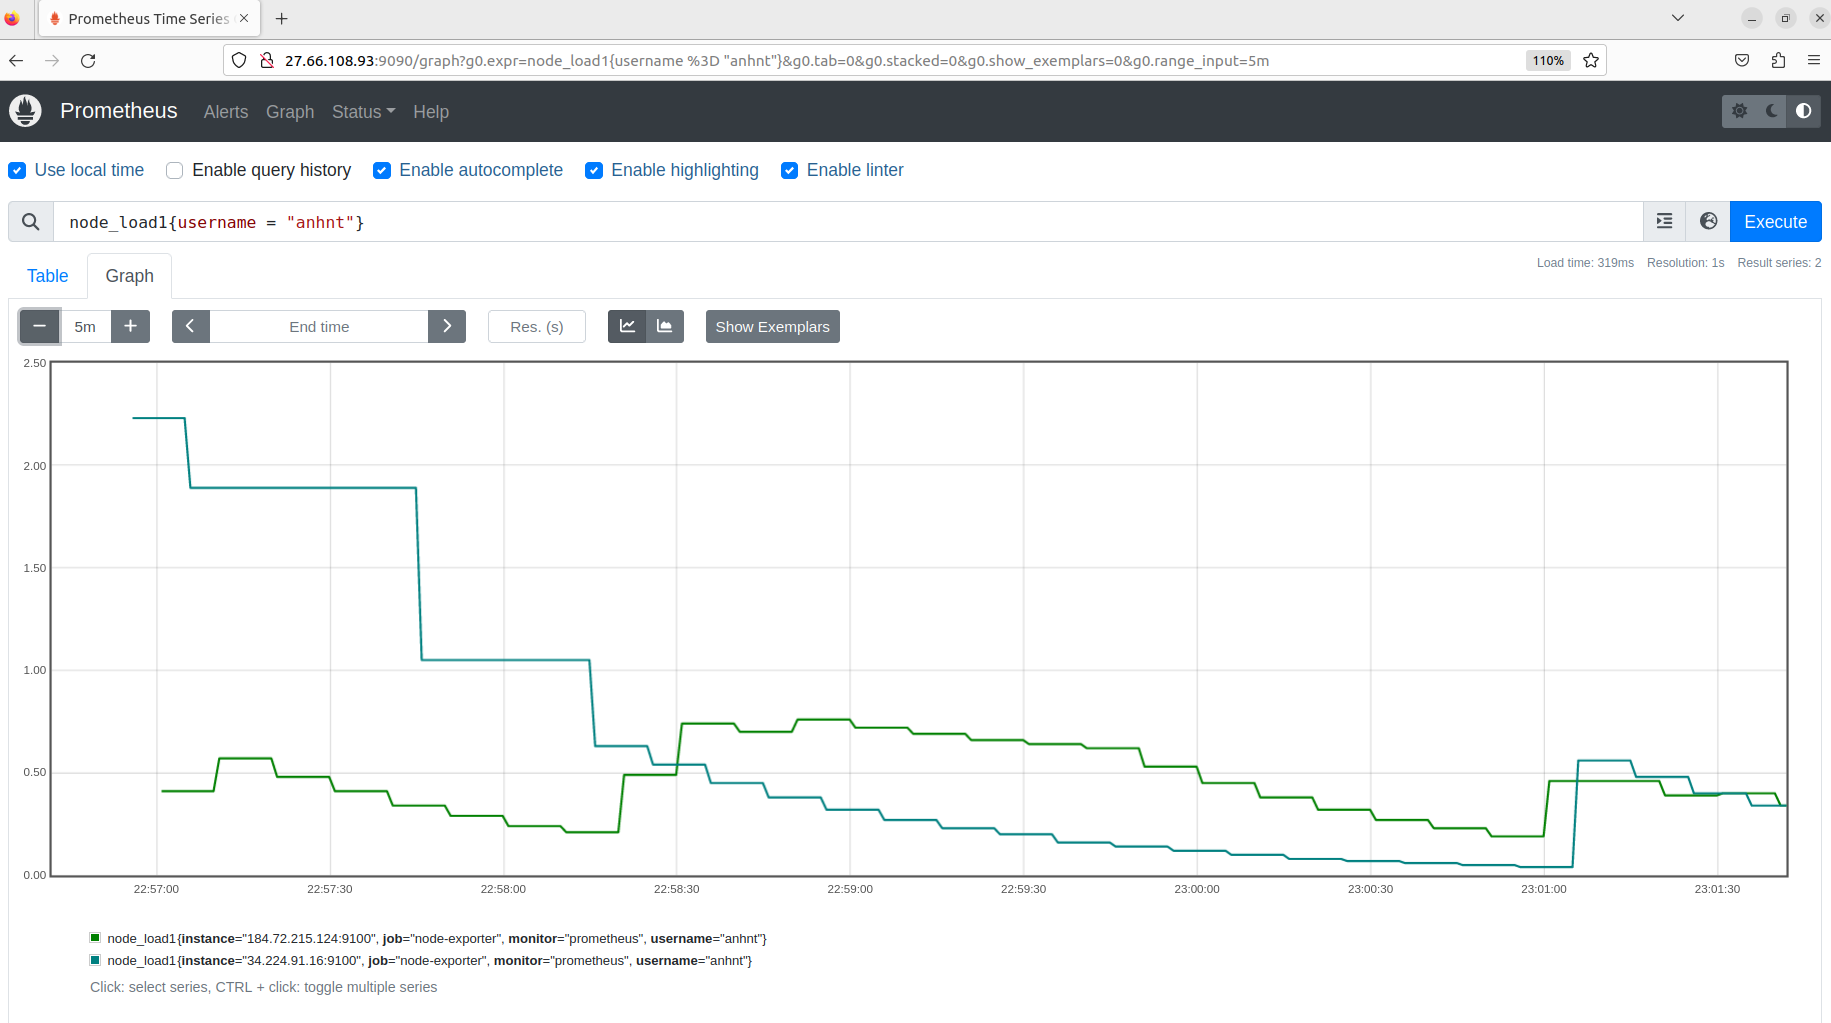
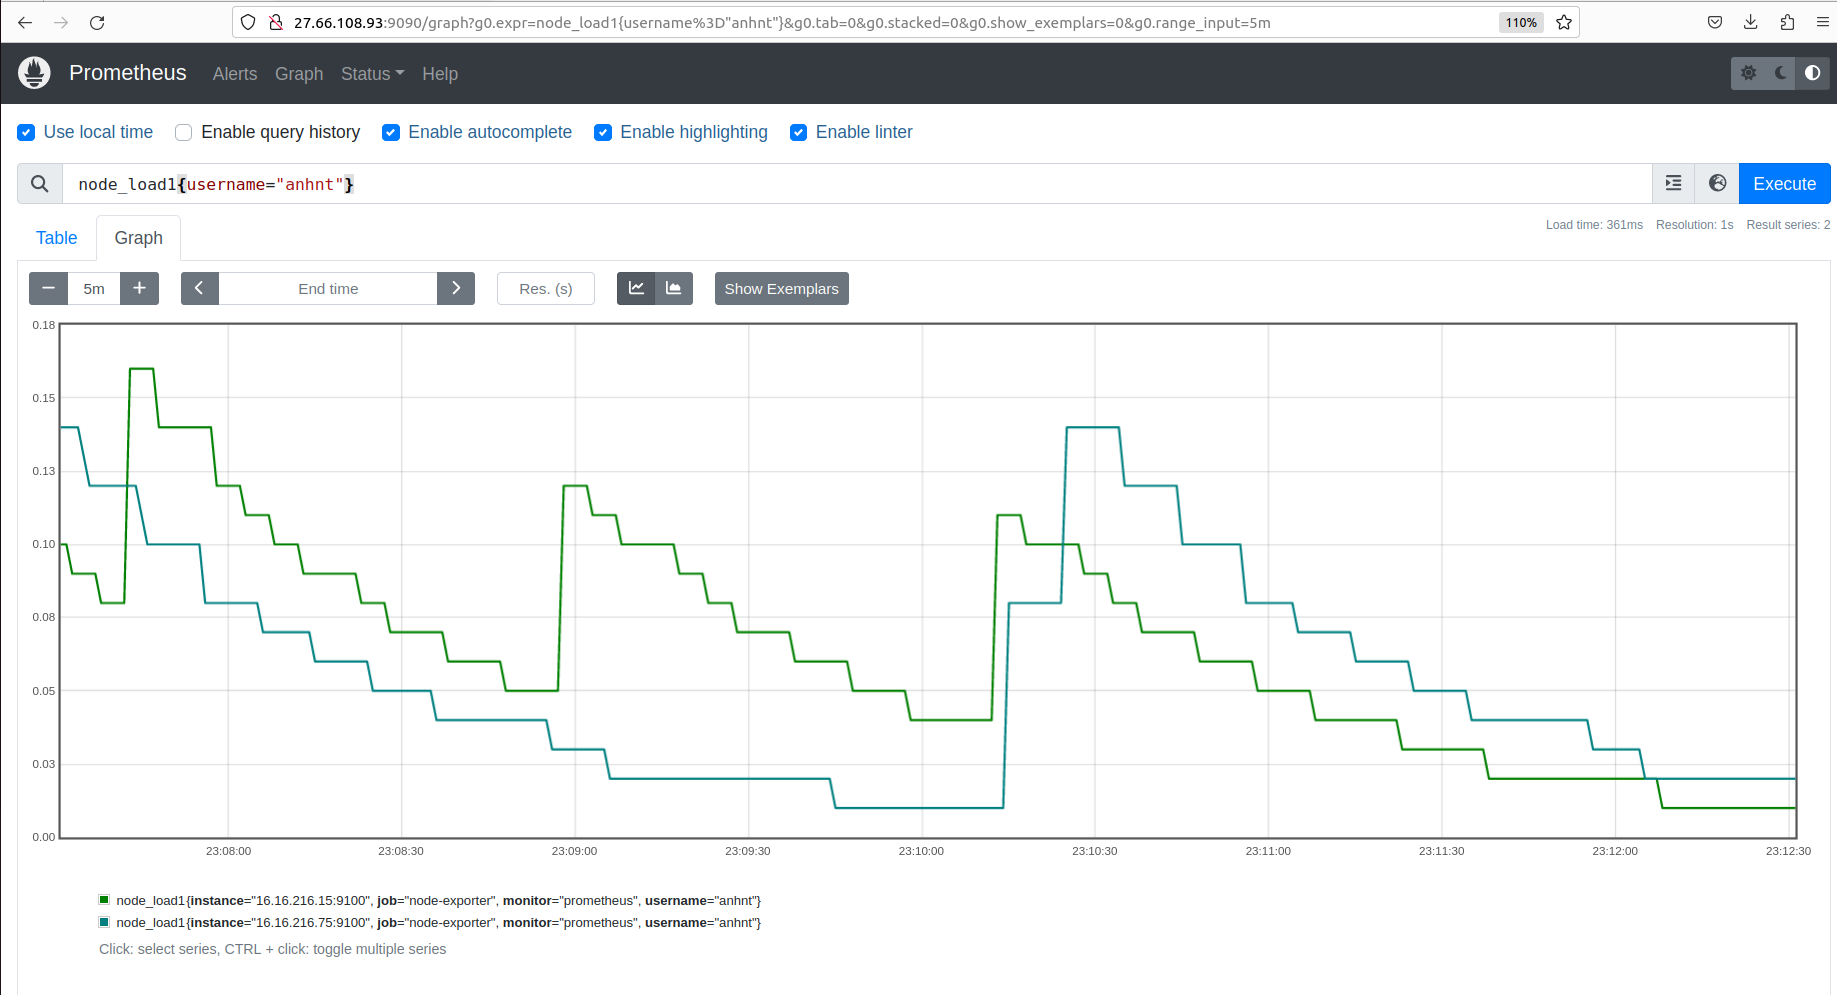
change README.md

diff --git a/10. GK/NguyenTuanAnh/README.md b/10. GK/NguyenTuanAnh/README.md
@@ -77,11 +77,18 @@ developer tạo ra trên GitHub
   
 **Output:**
 - Ảnh minh họa kiến trúc triển khai:
+
+<div align="center">
+       <img src="images/loadbalancer.jpg" width="700"/>
+       <br/>
+       <i>Hình 5. Ảnh minh họa kiến trúc triển khai.</i>
+</div>
+
 - File setup công cụ CD trên github: **[cd.yml](https://github.com/tuananhitmo97/Viettel-Digital-Talent-2023/blob/midterm/.github/workflows/cd.yml)**.
 - Output log của luồng CD:
 <div align="center">
        <img src="images/output_cd_log.png"/>
-       <i>Hình 5. Output log của luồng CD.</i>
+       <i>Hình 6. Output log của luồng CD.</i>
 </div>
 
 - Output của luồng build và push Docker image lên Docker Hub:
@@ -89,13 +96,13 @@ developer tạo ra trên GitHub
 <div align="center">
        <img src="images/frontend_image_dockerhub.png" width="600"/>
        <br/>
-       <i>Hình 6. Image frontend in Dockerhub.</i>
+       <i>Hình 7. Image frontend in Dockerhub.</i>
 </div>
 
 <div align="center">
        <img src="images/backend_image_dockerhub.png" width="600"/>
        <br/>
-       <i>Hình 7. Image backend in Dockerhub.</i>
+       <i>Hình 8. Image backend in Dockerhub.</i>
 </div>
 
 - Thư mục chứa ansible playbook dùng để triển khai các dịch vụ: **[Ansible](https://github.com/tuananhitmo97/Viettel-Digital-Talent-2023/tree/midterm/10.%20GK/NguyenTuanAnh/Ansible)**.
@@ -103,7 +110,7 @@ developer tạo ra trên GitHub
 <div align="center">
        <img src="images/tree_folder.png" width="600"/>
        <br/>
-       <i>Hình 8. Cấu trúc các thư mục Ansible.</i>
+       <i>Hình 9. Cấu trúc các thư mục Ansible.</i>
 </div>
 
 - Output log của Ansible:
@@ -114,7 +121,7 @@ developer tạo ra trên GitHub
        <img src="images/ansible_log_3.png"/>
        <img src="images/ansible_log_4.png"/>
        <br/>
-       <i>Hình 9. Output log của Ansible.</i>
+       <i>Hình 10. Output log của Ansible.</i>
 </div>
 
 - Hình ảnh demo Web application và các chức năng trên remote hosts EC2 AWS:
@@ -122,7 +129,7 @@ developer tạo ra trên GitHub
 <div align="center">
        <img src="images/webapp_demo.png"/>
        <br/>
-       <i>Hình 10. Demo CRUD Web application hiển thị danh sách các ứng viên.</i>
+       <i>Hình 11. Demo CRUD Web application hiển thị danh sách các ứng viên.</i>
 </div>
 
 - Hình ảnh test các chức năng trên các remote hosts:
@@ -132,19 +139,19 @@ developer tạo ra trên GitHub
        <img src="images/insert_2.png"/>
        <img src="images/insert_3.png"/>
        <br/>
-       <i>Hình 11. Add attendee data.</i>
+       <i>Hình 12. Add attendee data.</i>
 </div>
 
 <div align="center">
        <img src="images/view.png"/>
-       <i>Hình 12. View attendee data.</i>
+       <i>Hình 13. View attendee data.</i>
 </div>
 
 <div align="center">
        <img src="images/update.png"/>
        <img src="images/update_2.png"/>
        <br/>
-       <i>Hình 13. Update attendee data.</i>
+       <i>Hình 14. Update attendee data.</i>
 </div>
 
 <div align="center">
@@ -152,7 +159,7 @@ developer tạo ra trên GitHub
        <img src="images/delete_2.png"/>
        <img src="images/delete_3.png"/>
        <br/>
-       <i>Hình 14. Delete attendee data.</i>
+       <i>Hình 15. Delete attendee data.</i>
 </div>
 
 ### 4. Monitoring
@@ -169,6 +176,15 @@ sát dịch vụ của các sinh viên trên hệ thống giám sát tập trung
 - Thư mục **[monitor](https://github.com/tuananhitmo97/Viettel-Digital-Talent-2023/tree/midterm/10.%20GK/NguyenTuanAnh/Ansible/roles/monitor)** bao gồm setup role **monitor** chứa các playbook và file cấu hình **[prometheus.yaml](https://github.com/tuananhitmo97/Viettel-Digital-Talent-2023/blob/109b4fcfac58f43a30a0717e46a2e408b3b8b84d/10.%20GK/NguyenTuanAnh/Ansible/roles/monitor/files/prometheus.yaml)** giám sát cho hệ thống:
 - Ảnh chụp dashboard giám sát nodes & containers sử dụng hệ thống prometheus tập trung ở **171.236.38.100:900**.
 
+<div align="center">
+       <img src="images/prometheus_1.png"/>
+       <img src="images/prometheus_2.png"/>
+       <img src="images/prometheus_3.png"/>
+       <img src="images/prometheus_4.png"/>
+       <br/>
+       <i>Hình 16. Giám sát nodes và containers sử dụng Prometheus.</i>
+</div>
+
 ### 5. Logging
 **Yêu cầu:**
 
@@ -183,4 +199,3 @@ Phụ lục I.
 
 **Output:**
 - Ansible playbook **[logging](https://github.com/tuananhitmo97/Viettel-Digital-Talent-2023/tree/109b4fcfac58f43a30a0717e46a2e408b3b8b84d/10.%20GK/NguyenTuanAnh/Ansible/roles/logging)** triển khai các dịch vụ collect log và file cấu hình **[fluentd.conf](https://github.com/tuananhitmo97/Viettel-Digital-Talent-2023/blob/109b4fcfac58f43a30a0717e46a2e408b3b8b84d/10.%20GK/NguyenTuanAnh/Ansible/roles/logging/templates/fluentd.conf)** để collect log.
-- Ảnh chụp sample log từ Kibana 171.236.38.100:5601.
